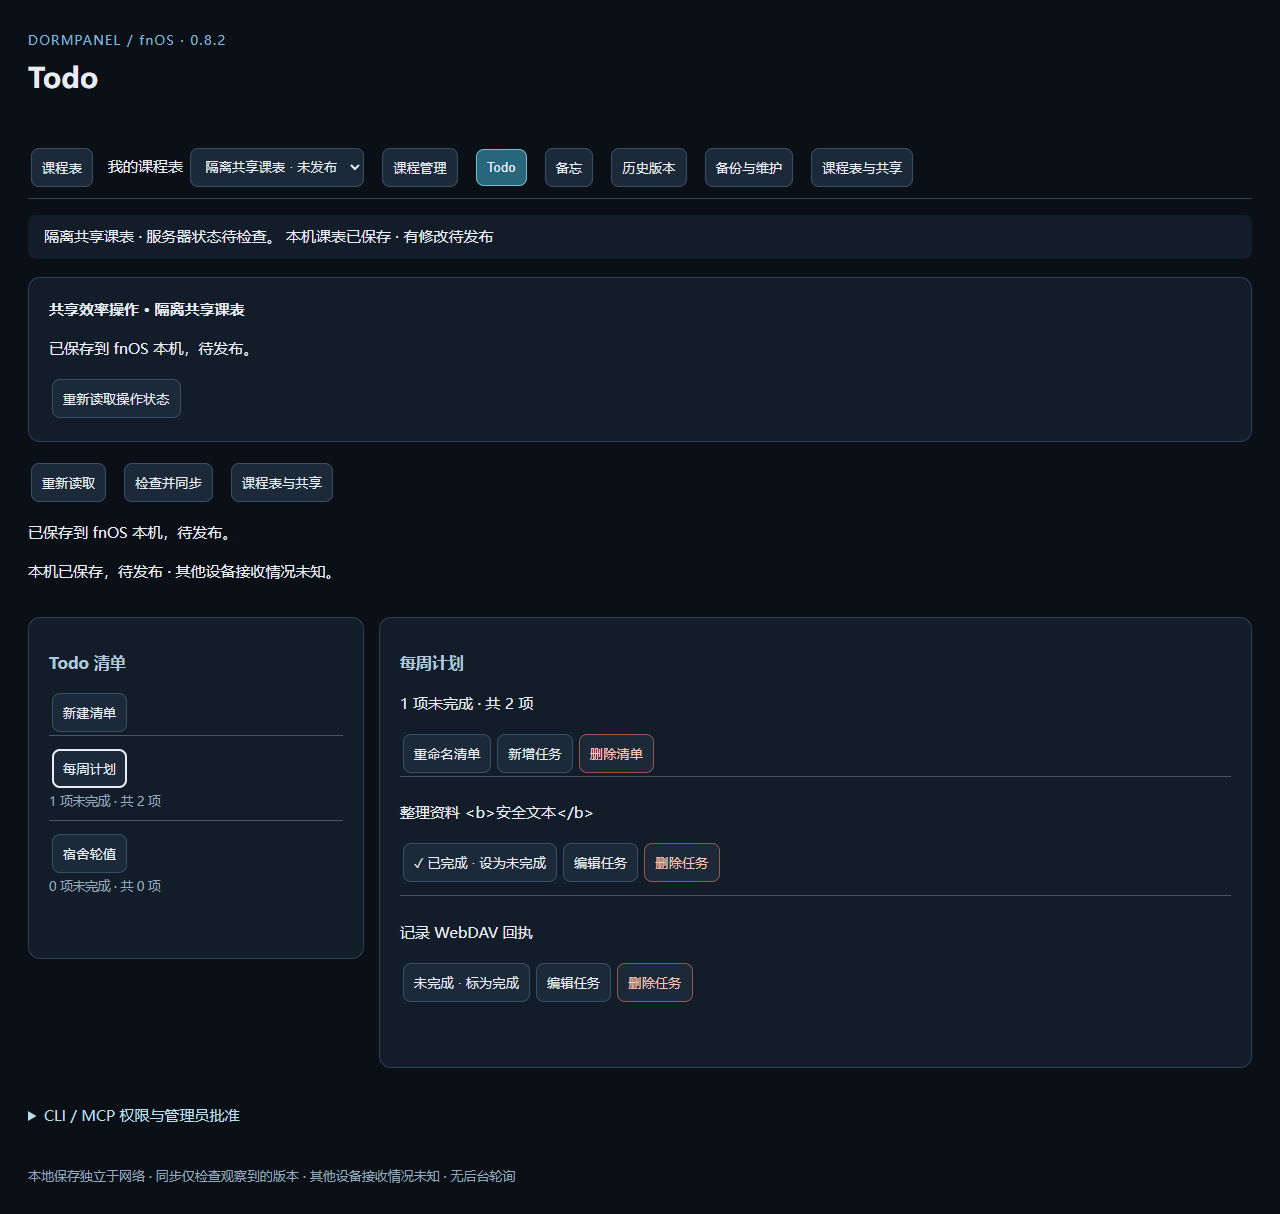
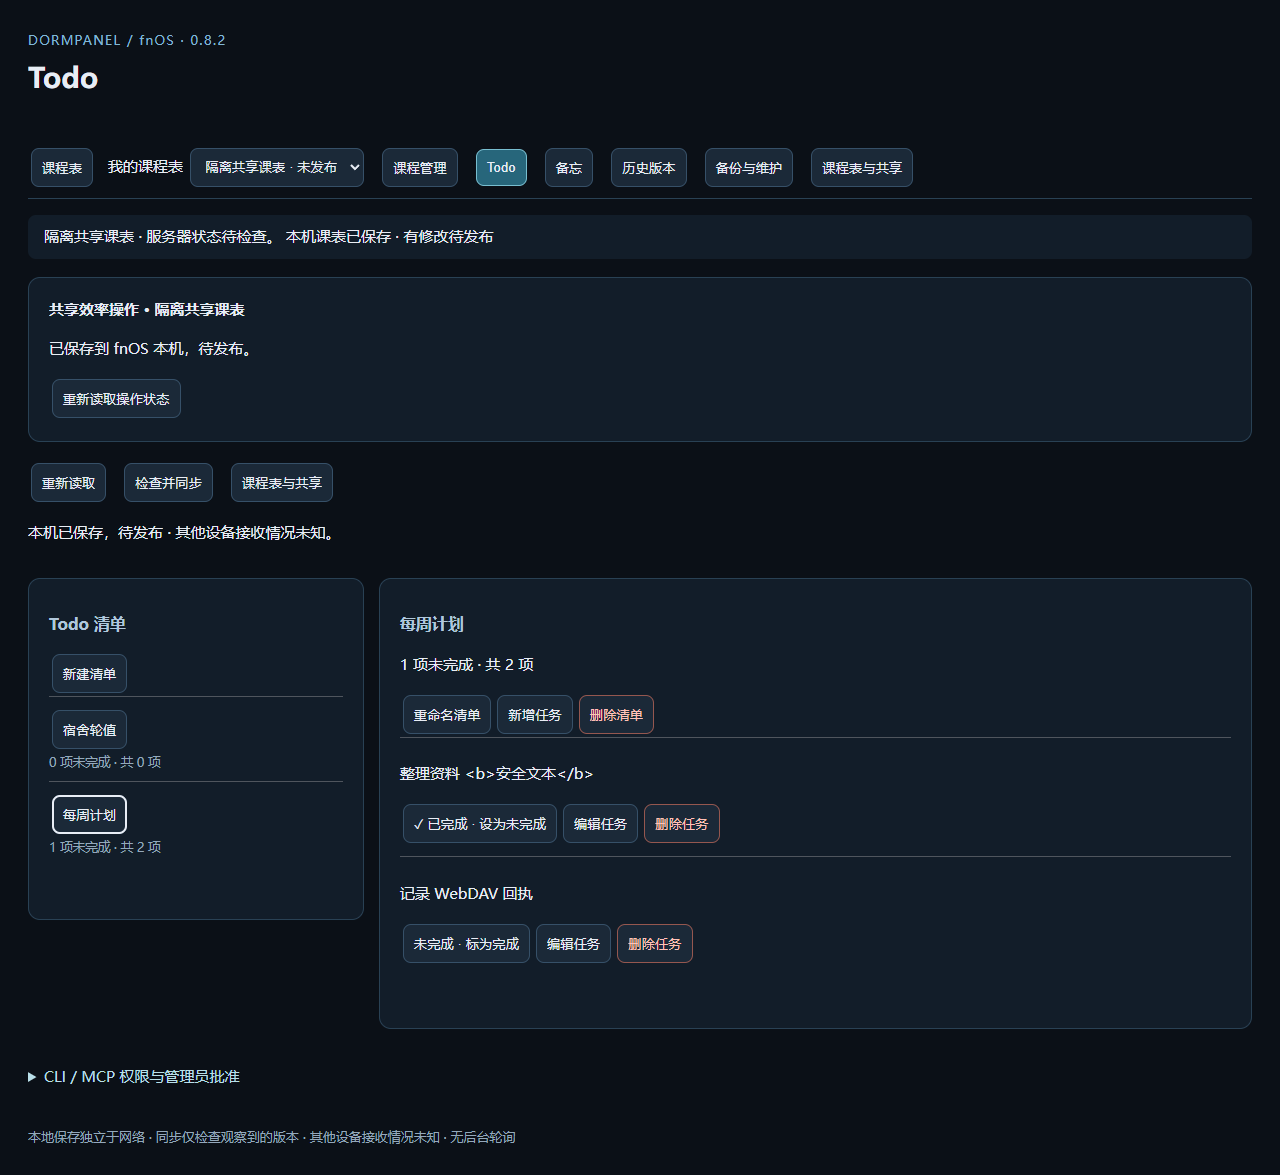
fix: 保持双格式加入兼容并复验原生 Todo Widget 刷新

diff --git a/phone-app/src/androidTest/java/com/dormpanel/phone/PhoneProductivityAndroidTest.kt b/phone-app/src/androidTest/java/com/dormpanel/phone/PhoneProductivityAndroidTest.kt
@@ -293,10 +293,8 @@ class PhoneProductivityAndroidTest {
     @Test fun joinSharedEditAndOperateRealWidgetInstances() {
         val url = InstrumentationRegistry.getArguments().getString("pr88Url")
         assumeNotNull(url)
-        val pr89 = context.packageName.endsWith(".pr89testbed")
-        check(pr89 || context.packageName.endsWith(".pr88testbed"))
-        val prefix = if (pr89) "pr89" else "pr88"
-        check(Regex("http://127[.]0[.]0[.]1:[0-9]+/$prefix-[0-9a-f-]{36}/").matches(requireNotNull(url)))
+        check(context.packageName.endsWith(".pr88testbed"))
+        check(Regex("http://127[.]0[.]0[.]1:[0-9]+/pr88-[0-9a-f-]{36}/").matches(requireNotNull(url)))
         val store = requireNotNull(data.shared)
         val account = WebDavAccount(url, "fixture", "fixture")
         val remote = V3WebDavStore(account, url, V3Budget(), sharedFormat = true)
@@ -311,9 +309,6 @@ class PhoneProductivityAndroidTest {
         val shared = await(store::loadProductivity).getOrThrow()
         val dataset = shared.version!!.datasetId
         val x08eList = shared.content.lists.single { shared.content.tasks(it.id).any { t -> t.text == "整理下周课表" } }
-        val fnosTask = if (pr89) shared.content.tasks(x08eList.id).single { it.text == "fnOS 新增的共享任务" } else null
-        val fnosMemo = if (pr89) shared.content.memos.single { it.title == "fnOS 编辑的共享备忘" } else null
-        if (fnosMemo != null) assertEquals("  fnOS 编辑\r\n第二行🙂\n  ", fnosMemo.body)
 
         PhoneProductivity.bindings.set(PhoneProductivity.MODE, PhoneProductivity.LOCAL)
         val list = ProductivityRecord.TodoList(AndroidProductivity.id(), "开学准备")
@@ -387,8 +382,7 @@ class PhoneProductivityAndroidTest {
         try {
             val todoId = bind(0, ProductivityKind.TODO, list)
             val anotherTodo = bind(1, ProductivityKind.TODO, x08eList)
-            val displayedMemo = fnosMemo ?: memo
-            val memoId = bind(2, ProductivityKind.MEMO, displayedMemo)
+            val memoId = bind(2, ProductivityKind.MEMO, memo)
             waitFor {
                 ProductivityWidgets.rows(todoId)?.tasks?.size == 7 &&
                     ProductivityWidgets.rows(anotherTodo)?.tasks?.any { it.text == "整理下周课表" } == true
@@ -417,7 +411,6 @@ class PhoneProductivityAndroidTest {
                 lateinit var holder: LinearLayout
                 lateinit var todo: android.appwidget.AppWidgetHostView
                 lateinit var memoWidget: android.appwidget.AppWidgetHostView
-                var fnosTodo: android.appwidget.AppWidgetHostView? = null
                 scenario.onActivity { activity ->
                     holder = LinearLayout(activity).apply {
                         orientation = LinearLayout.VERTICAL
@@ -443,7 +436,7 @@ class PhoneProductivityAndroidTest {
                     }
                     try {
                         waitText(list.name)
-                        waitText(displayedMemo.title)
+                        waitText(memo.title)
                     } catch (error: Exception) {
                         screenshot("phone-widgets-diagnostic")
                         throw error
@@ -465,37 +458,6 @@ class PhoneProductivityAndroidTest {
                 waitText(next.text)
                 onView(allOf(withId(R.id.productivity_check), hasSibling(withText(next.text)), isDisplayed())).perform(click())
                 waitFor { load(dataset).content.tasks.single { it.id == next.id }.completed }
-                if (fnosTask != null) {
-                    val remaining = load(dataset).content.tasks(x08eList.id).count { !it.completed }
-                    scenario.onActivity { activity ->
-                        holder.removeAllViews()
-                        fnosTodo = host.createView(activity, anotherTodo, manager.getAppWidgetInfo(anotherTodo))
-                        holder.addView(fnosTodo, LinearLayout.LayoutParams(-1, -1))
-                    }
-                    waitFor {
-                        var ready = false
-                        scenario.onActivity {
-                            val listView = fnosTodo?.findViewById<android.widget.ListView>(R.id.productivity_tasks)
-                            ready = (listView?.count ?: 0) >= shared.content.tasks(x08eList.id).size &&
-                                fnosTodo?.findViewById<TextView>(R.id.productivity_status)?.text?.contains("剩余 $remaining 项") == true
-                        }
-                        ready
-                    }
-                    androidx.test.espresso.Espresso.onData(org.hamcrest.Matchers.anything())
-                        .inAdapterView(withId(R.id.productivity_tasks))
-                        .atPosition(shared.content.tasks(x08eList.id).indexOf(fnosTask))
-                        .onChildView(withId(R.id.productivity_check)).perform(click())
-                    waitFor { load(dataset).content.tasks(x08eList.id).single { it.id == fnosTask.id }.completed }
-                    waitFor {
-                        var refreshed = false
-                        scenario.onActivity {
-                            refreshed = fnosTodo?.findViewById<TextView>(R.id.productivity_status)?.text
-                                ?.contains("剩余 ${remaining - 1} 项") == true
-                        }
-                        refreshed
-                    }
-                    println("PR89_WIDGET_COUNT=$remaining->${remaining - 1}")
-                }
             }
             assertTrue(load(dataset).pending)
             settle(store, account)
@@ -523,7 +485,6 @@ class PhoneProductivityAndroidTest {
             } finally {
                 peer.close()
             }
-            if (pr89) println("PR89_PHONE_HASH=${load(dataset).version!!.businessHash}")
             if (InstrumentationRegistry.getArguments().getString("pr88KeepWidgets") == "true") {
                 context.getFileStreamPath("pr88-widget-fixture").writeText(ids.joinToString(",") + "\n$dataset")
                 retain = true
@@ -567,6 +528,100 @@ class PhoneProductivityAndroidTest {
             instrument.runOnMainSync { widgets.forEach(host::deleteAppWidgetId) }
             waitFor { widgets.all { PhoneProductivity.bindings.get("widget-$it") == null } }
             assertEquals(before, load(dataset))
+        }
+    }
+
+    @Test fun receivesFnOsAndClicksWidget() {
+        val url = InstrumentationRegistry.getArguments().getString("pr89Url")
+        assumeNotNull(url)
+        check(context.packageName.endsWith(".pr89testbed"))
+        check(Regex("http://127[.]0[.]0[.]1:[0-9]+/pr89-[0-9a-f-]{36}/").matches(requireNotNull(url)))
+        val account = WebDavAccount(url, "fixture", "fixture")
+        val store = requireNotNull(data.shared)
+        if (!store.isV3()) {
+            val remote = V3WebDavStore(account, url, V3Budget(), sharedFormat = true)
+            val descriptor = requireNotNull(remote.read(remote.list("").flatMap { remote.list(it) }
+                .single { it.substringAfterLast('/').startsWith("descriptor-") }))
+            var preview: UnboundV3JoinPreview? = null
+            repeat(8) { if (preview == null) preview = store.previewUnboundV3Join(account, url, descriptor) }
+            store.joinVerifiedV3(requireNotNull(preview), account)
+        }
+        settle(store, account)
+        val state = await(store::loadProductivity).getOrThrow()
+        val dataset = state.version!!.datasetId
+        val list = state.content.lists.single { state.content.tasks(it.id).any { task -> task.text == "fnOS 新增的共享任务" } }
+        val tasks = state.content.tasks(list.id)
+        val target = tasks.single { it.text == "fnOS 新增的共享任务" }
+        assertFalse(target.completed)
+        val memo = state.content.memos.single { it.title == "fnOS 编辑的共享备忘" }
+        assertEquals("  fnOS 编辑\r\n第二行🙂\n  ", memo.body)
+        val manager = AppWidgetManager.getInstance(context)
+        val host = AppWidgetHost(context, 8900)
+        val ids = mutableListOf<Int>()
+        fun configure(kind: ProductivityKind, record: ProductivityRecord): Int {
+            val id = host.allocateAppWidgetId().also(ids::add)
+            val component = ComponentName(context, if (kind == ProductivityKind.TODO) TodoWidgetProvider::class.java else MemoWidgetProvider::class.java)
+            check(manager.bindAppWidgetIdIfAllowed(id, component))
+            ActivityScenario.launch<ProductivityActivity>(ProductivityActivity.intent(context, kind)).use { scenario ->
+                scenario.onActivity { host.startAppWidgetConfigureActivityForResult(it, id, 0, 8901, null) }
+                waitText("选择小组件数据来源")
+                onView(allOf(withText("共享"), isDisplayed())).perform(click())
+                waitText(record.title)
+                onView(allOf(withText(record.title), isDisplayed())).perform(click())
+                waitFor { PhoneProductivity.bindings.get("widget-$id")?.contains(record.id) == true }
+                instrument.waitForIdleSync()
+            }
+            return id
+        }
+        try {
+            val todoId = configure(ProductivityKind.TODO, list)
+            val memoId = configure(ProductivityKind.MEMO, memo)
+            val remaining = tasks.count { !it.completed }
+            ActivityScenario.launch<ProductivityActivity>(ProductivityActivity.intent(context, ProductivityKind.TODO)).use { scenario ->
+                lateinit var todo: android.appwidget.AppWidgetHostView
+                lateinit var memoWidget: android.appwidget.AppWidgetHostView
+                scenario.onActivity { activity ->
+                    val holder = LinearLayout(activity).apply { orientation = LinearLayout.VERTICAL }
+                    host.startListening()
+                    todo = host.createView(activity, todoId, manager.getAppWidgetInfo(todoId))
+                    memoWidget = host.createView(activity, memoId, manager.getAppWidgetInfo(memoId))
+                    holder.addView(memoWidget, LinearLayout.LayoutParams(-1, 400))
+                    holder.addView(todo, LinearLayout.LayoutParams(-1, 0, 1f))
+                    activity.setContentView(holder)
+                }
+                waitFor {
+                    var ready = false
+                    scenario.onActivity {
+                        ready = todo.findViewById<android.widget.ListView>(R.id.productivity_tasks)?.count == tasks.size &&
+                            todo.findViewById<TextView>(R.id.productivity_status)?.text?.contains("剩余 $remaining 项") == true &&
+                            memoWidget.findViewById<TextView>(R.id.productivity_body)?.text?.toString() == memo.body
+                    }
+                    ready
+                }
+                val widgetPosition = ProductivityWidgets.rows(todoId)!!.tasks.indexOfFirst { it.id == target.id }
+                check(widgetPosition >= 0)
+                androidx.test.espresso.Espresso.onData(org.hamcrest.Matchers.anything()).inAdapterView(withId(R.id.productivity_tasks))
+                    .atPosition(widgetPosition).onChildView(withId(R.id.productivity_check)).perform(click())
+                waitFor { load(dataset).content.tasks(list.id).single { it.id == target.id }.completed }
+                waitFor {
+                    var refreshed = false
+                    scenario.onActivity {
+                        refreshed = todo.findViewById<TextView>(R.id.productivity_status)?.text?.contains("剩余 ${remaining-1} 项") == true
+                    }
+                    refreshed
+                }
+                screenshot("pr89-widget-confirmed")
+                println("PR89_WIDGET_COUNT=$remaining->${remaining-1}")
+            }
+            settle(store, account)
+            val result = load(dataset)
+            assertFalse(result.pending)
+            println("PR89_PHONE_HASH=${result.version!!.businessHash}")
+        } finally {
+            instrument.runOnMainSync {
+                host.stopListening()
+                ids.forEach(host::deleteAppWidgetId)
+            }
         }
     }
 

diff --git a/phone-app/src/main/java/com/dormpanel/phone/ProductivityWidgets.kt b/phone-app/src/main/java/com/dormpanel/phone/ProductivityWidgets.kt
@@ -234,6 +234,8 @@ internal object ProductivityWidgets {
         val width = options.getInt(AppWidgetManager.OPTION_APPWIDGET_MIN_WIDTH, 150)
         val layout = if (kind == ProductivityKind.TODO) R.layout.productivity_todo_widget else R.layout.productivity_memo_widget
         val remote = RemoteViews(app.packageName, layout)
+        val previousRows = rows[id]
+        var legacyTodoAdapter = false
         val status = errors[id] ?: when {
             bound.isFailure -> "本机绑定读取失败"
             target == null -> "选择显示内容"
@@ -269,8 +271,11 @@ internal object ProductivityWidgets {
             }
             ProductivityKind.TODO -> {
                 val ordered = tasks.sortedBy { it.completed }
-                if (record != null && version != null && binding != null) {
-                    rows[id] = Rows(binding.encode(), version, ordered, view.writeBlock == null)
+                val snapshot = if (record != null && version != null && binding != null) {
+                    Rows(binding.encode(), version, ordered, view.writeBlock == null)
+                } else null
+                if (snapshot != null) {
+                    rows[id] = snapshot
                 } else rows.remove(id)
                 remote.setViewVisibility(R.id.productivity_tasks, if (record == null) View.GONE else View.VISIBLE)
                 // RemoteViews sends this Activity PendingIntent with the host's user-interaction grant.
@@ -278,12 +283,39 @@ internal object ProductivityWidgets {
                     .setData(uri("row", id)).addFlags(Intent.FLAG_ACTIVITY_NO_ANIMATION)
                 remote.setPendingIntentTemplate(R.id.productivity_tasks, PendingIntent.getActivity(app, id, template,
                     PendingIntent.FLAG_UPDATE_CURRENT or if (Build.VERSION.SDK_INT >= 31) PendingIntent.FLAG_MUTABLE else 0))
-                remote.setRemoteAdapter(R.id.productivity_tasks, Intent(app, ProductivityTaskService::class.java)
-                    .setData(uri("tasks", id)))
+                // Publish the header and rows in one RemoteViews on modern hosts. Keep
+                // large lists on the lazy adapter to bound the direct Binder payload.
+                if (Build.VERSION.SDK_INT >= 31 && ordered.size <= 128 &&
+                    ordered.sumOf { it.text.length } <= 32_768) {
+                    val items = RemoteViews.RemoteCollectionItems.Builder().setViewTypeCount(1)
+                    if (snapshot != null) ordered.forEachIndexed { index, task ->
+                        items.addItem(index.toLong(), taskRow(app, snapshot, task))
+                    }
+                    remote.setRemoteAdapter(R.id.productivity_tasks, items.build())
+                } else {
+                    legacyTodoAdapter = true
+                    remote.setRemoteAdapter(R.id.productivity_tasks,
+                        Intent(app, ProductivityTaskService::class.java).setData(uri("tasks", id)))
+                }
             }
         }
         manager.updateAppWidget(id, remote)
-        if (kind == ProductivityKind.TODO) manager.notifyAppWidgetViewDataChanged(id, R.id.productivity_tasks)
+        if (legacyTodoAdapter && previousRows != rows[id]) {
+            manager.notifyAppWidgetViewDataChanged(id, R.id.productivity_tasks)
+        }
+    }
+
+    fun taskRow(app: Context, rows: Rows, task: ProductivityRecord.Task): RemoteViews {
+        val action = Intent().putExtra("binding", rows.binding).putExtra("task", task.id)
+            .putExtra("revision", rows.version.revision).putExtra("hash", rows.version.businessHash)
+        return RemoteViews(app.packageName, R.layout.productivity_task_widget_row).apply {
+            setTextViewText(R.id.productivity_task, task.text)
+            setTextViewText(R.id.productivity_check, if (task.completed) "☑" else "☐")
+            setContentDescription(R.id.productivity_check, if (task.completed) "取消完成" else "标为完成")
+            if (rows.writable) setOnClickFillInIntent(R.id.productivity_check,
+                Intent(action).putExtra("completed", !task.completed))
+            setOnClickFillInIntent(R.id.productivity_task, action)
+        }
     }
 
     private fun configure(app: Context, id: Int) = PendingIntent.getActivity(app, id,
@@ -409,16 +441,7 @@ class ProductivityTaskService : RemoteViewsService() {
             override fun getViewAt(position: Int): RemoteViews? {
                 val rows = state ?: return null
                 val task = rows.tasks.getOrNull(position) ?: return null
-                val action = Intent().putExtra("binding", rows.binding).putExtra("task", task.id)
-                    .putExtra("revision", rows.version.revision).putExtra("hash", rows.version.businessHash)
-                return RemoteViews(app.packageName, R.layout.productivity_task_widget_row).apply {
-                    setTextViewText(R.id.productivity_task, task.text)
-                    setTextViewText(R.id.productivity_check, if (task.completed) "☑" else "☐")
-                    setContentDescription(R.id.productivity_check, if (task.completed) "取消完成" else "标为完成")
-                    if (rows.writable) setOnClickFillInIntent(R.id.productivity_check,
-                        Intent(action).putExtra("completed", !task.completed))
-                    setOnClickFillInIntent(R.id.productivity_task, action)
-                }
+                return ProductivityWidgets.taskRow(app, rows, task)
             }
         }
     }

diff --git a/fnos-app/web/productivity.js b/fnos-app/web/productivity.js
@@ -104,14 +104,14 @@ export function installProductivity({ host, get, post, el, button, confirmAction
       if (!canWrite()) throw Error('请先等待写入结束或核对上一次结果');
       if (!sameContext(snapshot, state.data?.list)) throw Error('草稿版本已过期，请重新读取');
       if (draft) draft.sending = true;
-      const result = await post(editRoute, { ...context(snapshot), ...request });
+      await post(editRoute, { ...context(snapshot), ...request });
       if (draft && state.draft === draft) delete state.draft;
       if (current()) {
         if (request.action === 'todo.createList' || request.action === 'memo.create') {
           state.selected = request.id;
           state.taskOffset = 0;
         }
-        state.message = result.dirty ? '已保存到 fnOS 本机，待发布。' : '已保存到 fnOS 本机。';
+        state.message = '';
       }
       if (mode && state === model()) await reload();
     } catch (error) {
@@ -214,8 +214,12 @@ export function installProductivity({ host, get, post, el, button, confirmAction
     const { list, detail, conflicts } = state.data ?? {};
     const actions = el('nav');
     actions.append(button('重新读取', refresh), button('检查并同步', sync), button('课程表与共享', sources));
-    const message = el('p', state.message); message.setAttribute('role', 'status');
-    host.replaceChildren(actions, message);
+    host.replaceChildren(actions);
+    if (state.message) {
+      const message = el('p', state.message);
+      message.setAttribute('role', 'status');
+      host.append(message);
+    }
     if (!list) {
       if (state.draft) host.append(editor(state, false));
       return;

diff --git a/fnos-app/web/style.css b/fnos-app/web/style.css
@@ -25,7 +25,7 @@ dialog{background:#121d29;color:inherit;border:1px solid #365068;border-radius:1
 #productivity button { max-width:100%; white-space:normal; overflow-wrap:anywhere; }
 #productivity button[aria-pressed=true] { outline:2px solid currentColor; outline-offset:-2px; }
 .productivity-form label { display:block; margin-bottom:.8rem; }
-.productivity-form input, .productivity-form textarea { box-sizing:border-box; display:block; width:100%; resize:vertical; }
+.productivity-form textarea { box-sizing:border-box; display:block; width:100%; min-height:0; resize:vertical; font:inherit; }
 #productivity pre { max-height:22rem; overflow:auto; }
 .productivity-conflict { display:grid; grid-template-columns:repeat(3, minmax(0,1fr)); gap:.8rem; }
 @media (max-width:690px) {

diff --git a/docs/verification/pr89/README.md b/docs/verification/pr89/README.md
@@ -20,4 +20,33 @@ fnpack build --directory build/dormpanel-schedule-manager
 npm run verify:package
 ```
 
[2 lines of base64/hex data omitted]
+
+## 已安装 FPK 与 Android WebDAV 往返
+
+在 fnOS VM 的 App Center 安装独立应用 `dormpanel-pr89b`，验收包 manifest 版本为 0.8.3，使用 NAS 自带 Node 22.23.5。使用 fnOS 网关核对实际 Todo、备忘和发布状态，从 FPK 自带的 CLI 读取当前清单。测试机上的 WsgiDAV 使用全新目录。X08E 使用 API 28、1280×800、160 dpi 模拟器，Phone 使用 API 37 模拟器。两端为独立 `.pr89testbed` 应用。
+
+1. 用 X08E 卡片导入和发布 12 项合成任务及一条包含 CRLF 的长备忘，验证原卡片切回本机、共享绑定及 Timer 保留。fnOS 显式选择并加入该 DPV3/4。
+2. 通过已安装 FPK 的管理员 HTTP 事务新增「fnOS 新增的共享任务」并修改同一备忘。保存后验证 `dirty=true`，同步后取得远端精确回读。fnOS 网关显示对应任务、备忘和回执提示。
+3. Phone 原生 AppWidgetHost 加载该 Todo 和备忘，核对备忘原文，点击真实 Widget 的任务勾选，确认剩余计数从 **12 → 11**。随后发布并由 fnOS 与 X08E 接收。
+4. 在上述收敛检查点之后临时停止隔离 WebDAV 服务。已安装的 FPK 仍保存含换行与 Unicode 的新备忘，报告 `dirty=true` 与同步异常。原版本重放被拒绝。恢复同一 WebDAV 服务后取得精确回读，使用新版本重试相同创建 ID 仍被拒绝，同 ID 记录仅一条。
+
+| 检查点 | 实测值 |
+| --- | --- |
+| datasetId | `47eafab7-fd42-4156-ac05-28fc8126dea1` |
+| 任务 ID / 状态 | `7d7e8d82-b809-44ea-85bc-c6895c8842d1`，三端均完成 |
+| 备忘 ID / 正文 | `2b893eb6-2e1b-3f3c-ba28-71d3f7cad4c8`，保留 `"  fnOS 编辑\r\n第二行🙂\n  "` |
[3 lines of base64/hex data omitted]
+
+[Phone 原生 Widget 截图](phone-widget.png)。PR88 报告的计数滞后在本轮对照中复现。修复后，API 31 及以上的小型 Todo 清单在一次 RemoteViews 更新中提交标题、剩余数和任务行。较大的清单与旧 API 保留按需读取。此定向复验覆盖 API 37 原生 AppWidgetHost。[Android 集合 Widget 文档](https://developer.android.com/develop/ui/views/appwidgets/collections)
+
+复跑时用 `-Pdormpanel.testBuildType=x08eTest -Pdormpanel.testSuffix=.pr89testbed` 构建 `:app:assembleX08eTest`、`:app:assembleX08eTestAndroidTest`、`:phone-app:assembleX08eTest` 和 `:phone-app:assembleX08eTestAndroidTest`。安装到独立的模拟器应用后执行 `node --test test-fixtures/productivity-android.mjs`。设置 `PR89_X08E_SERIAL`、`PR89_PHONE_SERIAL` 及指向全新 `/pr89-<UUID>/` 目录的 `PR89_DAV_URL`。Android 经 adb reverse 使用测试代理，WebDAV 测试账号为 `fixture`。验证已安装包时，另设指向隔离 FPK 管理代理的 `PR89_FPK_HTTP` 和 fnOS 访问同一目录的 `PR89_FPK_DAV_HOST`。本次从同一隔离数据集续跑 Widget 修复验证，使用 `PR89_RESUME=1`，并核对原始任务、备忘和最终哈希。
+
+## 构建、回归与边界
+
[1 lines of base64/hex data omitted]
+- 网页套件通过课表/颜色 19 项和效率 4 项。已安装 FPK 的历史、连接管理、备份维护和课程读取端点返回 HTTP 200。Phone JVM 89 项通过。X08E 定向 JVM 与卡片实测覆盖本地 Todo、备忘及 Timer。
+- Windows 全量 `npm test` 曾报告三项失败。两个 worker 脚本被直接发现为测试，缺少子进程参数。v3 1024 次发布用例在断言额外 GET 次数时失败。三项均在独立 `main` 检出复现。
+- 实体 X08E、实体 Phone、独立 OEM Launcher 以及触发降级的大型 Widget 清单未实测。
